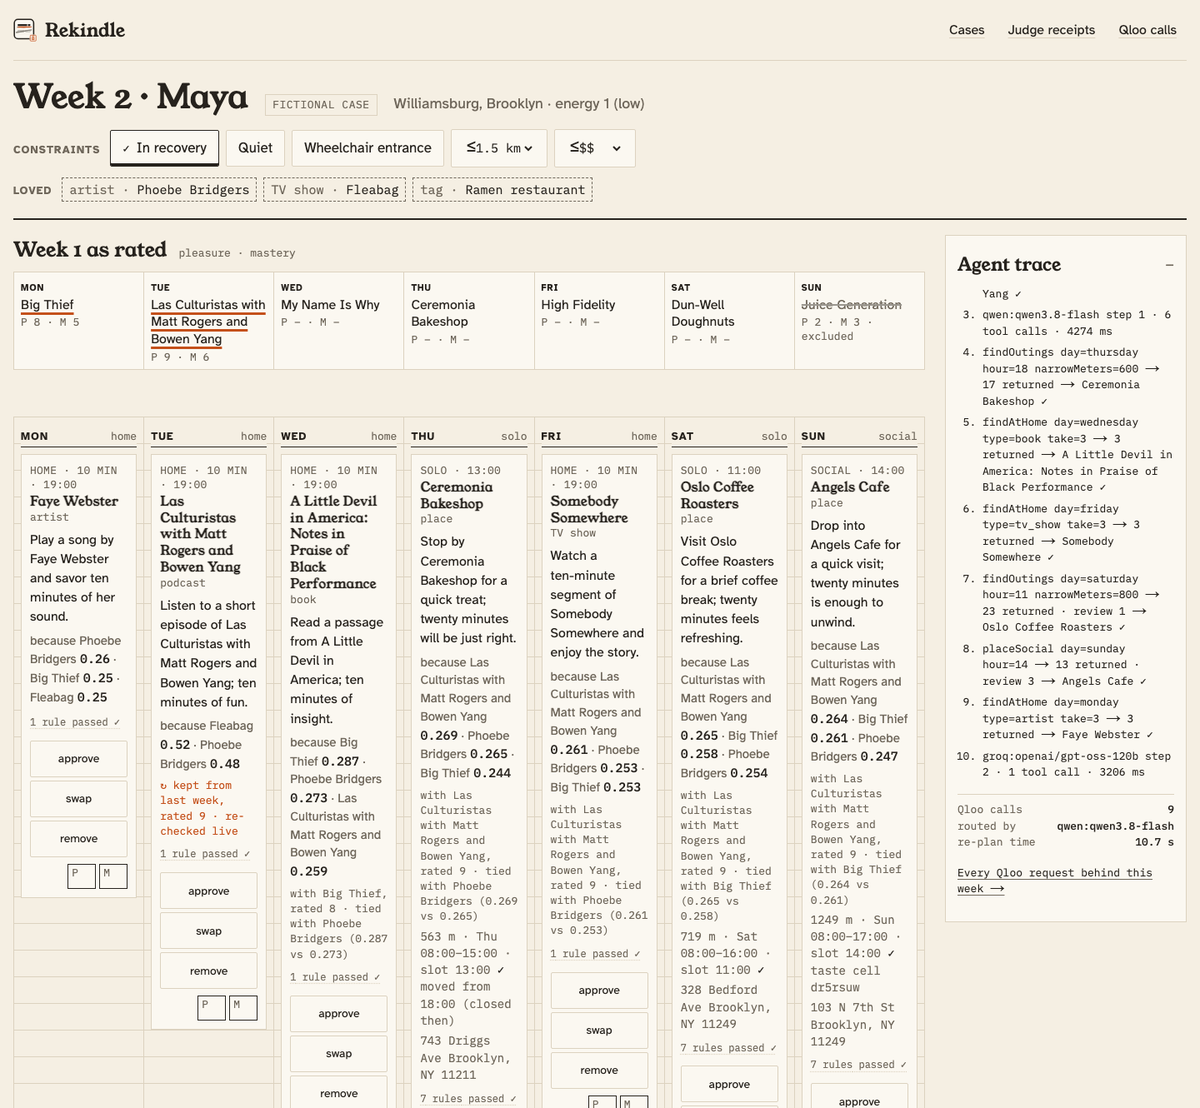
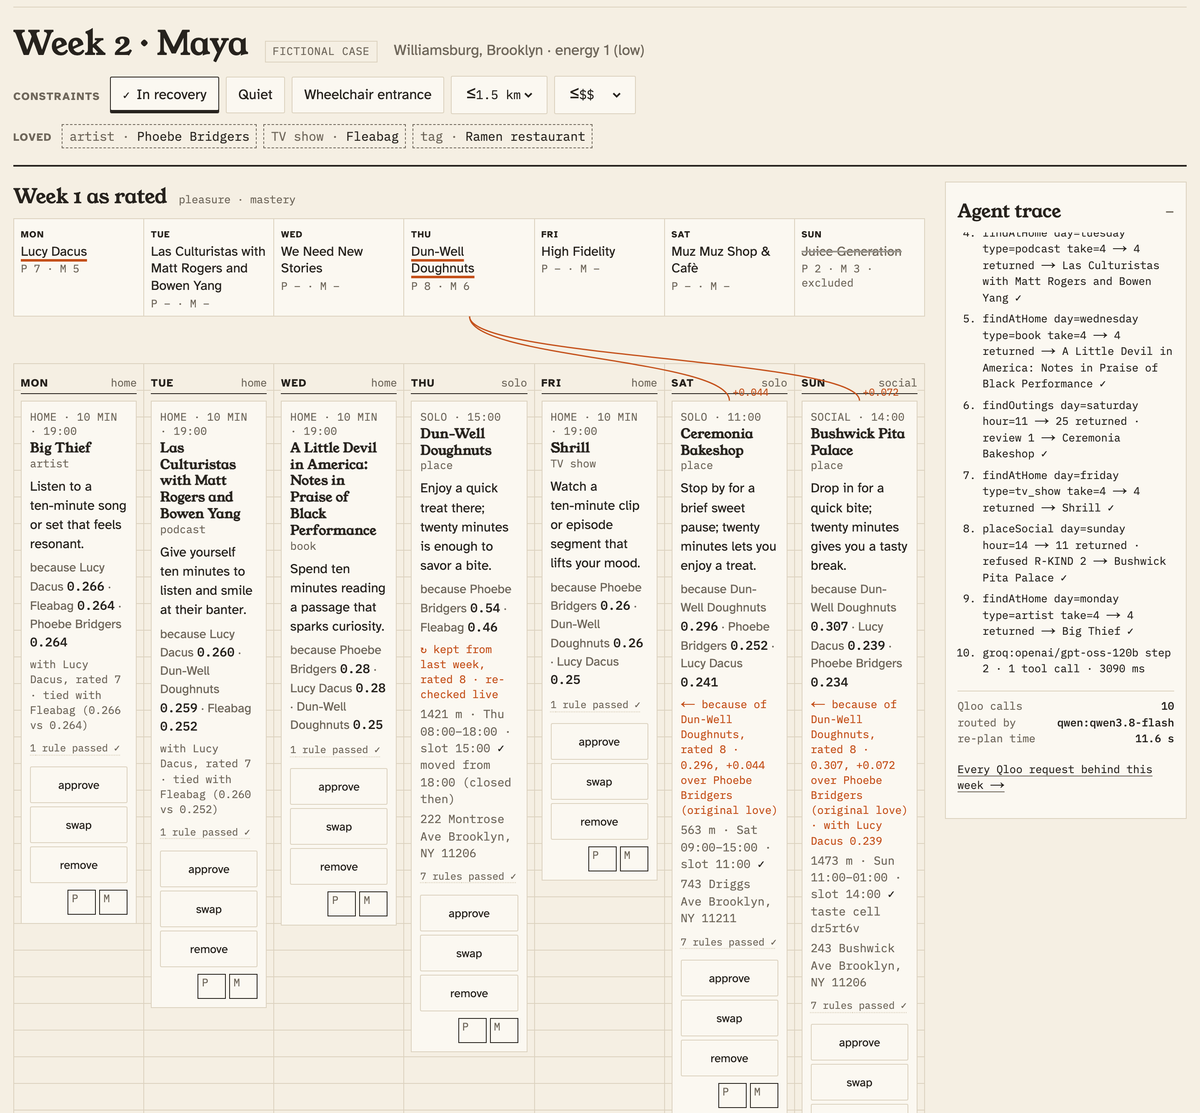
D14a assets: README hero is the animated re-plan (the real 8 Oct run: Dun-Well Doughnuts rated 8 kept and threaded to two new outings, Juice Generation rated 2 out; hand-checked 7 of 17 vs 0 of 14), the live week-2 capture moves under the re-plan step; og:image redrawn from a live capture and versio

diff --git a/app/layout.tsx b/app/layout.tsx
@@ -6,19 +6,24 @@ const display = Young_Serif({ variable: "--font-young-serif", weight: "400", sub
 const body = Atkinson_Hyperlegible({ variable: "--font-atkinson", weight: ["400", "700"], subsets: ["latin"] });
 const data = IBM_Plex_Mono({ variable: "--font-plex-mono", weight: ["400", "500"], subsets: ["latin"] });
 
+// Bump OG_IMAGE's version whenever public/og-image.png changes: Discord, X and Slack cache cards by URL (social-card trap 1).
+const OG_IMAGE = "/og-image.png?v=d14a";
+const OG_ALT =
+  "Rekindle: hand-checked, the same LLM got 7 of 17 named venues wrong and Rekindle 0 of 14; beside it, week two re-planned live from a fictional patient's ratings.";
+
 export const metadata: Metadata = {
   metadataBase: new URL("https://rekindle.edycu.dev"),
   title: "Rekindle",
   description:
-    "A behavioral-activation planning agent for clinicians: a verified, clinician-approved week of real activities built from what a patient used to love, via Qloo.",
+    "A behavioral-activation planning agent for clinicians: a verified, clinician-approved week of real activities from what a patient used to love, via Qloo.",
   icons: { icon: "/favicon.svg" },
   openGraph: {
     title: "Rekindle",
     siteName: "Rekindle",
     description:
-      "Turns what a patient used to love into a clinician-approved week of real, open, nearby activities, re-planned from pleasure ratings.",
+      "Turns what a patient used to love into a clinician-approved week of real, open, nearby places, re-planned from her ratings.",
     url: "https://rekindle.edycu.dev",
-    images: [{ url: "/og-image.png", width: 1200, height: 630, alt: "Rekindle" }],
+    images: [{ url: OG_IMAGE, width: 1200, height: 630, alt: OG_ALT }],
     locale: "en_US",
     type: "website",
   },
@@ -26,8 +31,8 @@ export const metadata: Metadata = {
     card: "summary_large_image",
     title: "Rekindle",
     description:
-      "Turns what a patient used to love into a clinician-approved week of real, open, nearby activities, re-planned from pleasure ratings.",
-    images: ["/og-image.png"],
+      "Turns what a patient used to love into a clinician-approved week of real, open, nearby places, re-planned from her ratings.",
+    images: [{ url: OG_IMAGE, alt: OG_ALT }],
   },
 };
 

diff --git a/README.md b/README.md
@@ -1,9 +1,9 @@
 <div align="center">
-  <img src="docs/assets/icon-animated.svg" alt="Rekindle icon" width="144" height="144">
+  <img src="docs/assets/icon-animated.svg" alt="Rekindle mark: the letter R on a pencil line that strikes through a pencilled word, then catches ember" width="144" height="144">
   <h1>Rekindle 🕯</h1>
   <p><b>A behavioral-activation planning agent for clinicians.</b><br>
   It turns what a depressed patient used to love into a week of real, open, nearby activities, verified with Qloo, approved by the clinician, and re-planned from the patient's own pleasure ratings.</p>
-  <img src="docs/assets/readme-replan-live.png" alt="A live Rekindle re-plan, captured from the deployed app on 7 Oct 2026: week 2 for Maya, a fictional case, with In recovery on. Above it, week 1 as rated: Big Thief P 8 and Las Culturistas P 9 underlined, Juice Generation P 2 struck as excluded. Las Culturistas comes back on Tuesday marked kept from last week, rated 9, re-checked live; other cards name the rated shows as a tied input next to Qloo's explainability weights. The agent trace runs down the right." width="100%">
+  <img src="docs/assets/readme-hero-animated.svg" alt="Rekindle — re-plans a patient's week from her pleasure ratings: Maya rated Dun-Well Doughnuts 8: kept, re-checked live, and threaded to two new outings. Juice Generation, rated 2, stays out. Maya is a fictional case; the names and scores are from a live run on 8 Oct 2026." width="100%">
 
   <br/>
 
@@ -68,6 +68,9 @@ Behavioral activation (BA) is a first-line, low-cost treatment for depression. I
    Refused candidates **stay on the sheet, struck through, with their rule**. Ambiguous ones go to the clinician in a dashed REVIEW box.
 4. **The clinician gate.** Approve, swap (re-runs that one slot live) or remove each card, then **Approve week**. Nothing reaches the patient without approval. A patient sheet prints only the approved activities.
 5. **Ratings → re-plan.** Pleasure and mastery are rated 0–10. A rating ≥7 becomes a Qloo signal for week 2, and a rating ≤3 becomes an exclusion. The diff draws an ember thread from a rated activity to a week-2 card only where it is the card's top rated Qloo explainability input and outweighs the case's best original love by at least 0.02 (the bench's margin); other ratings that also outweigh the loves are named on the label, and a narrower lead is labelled a tie. The top-rated activity itself comes back in its slot ("↻ kept") after a live re-check.
+
+<p align="center"><img src="docs/assets/readme-replan-live.png" alt="A live Rekindle re-plan, captured from the deployed app on 8 Oct 2026: week 2 for Maya, a fictional case, with In recovery on. Above it, week 1 as rated: Lucy Dacus P 7 and Dun-Well Doughnuts P 8 underlined in ember, Juice Generation P 2 struck as excluded. Dun-Well Doughnuts comes back on Thursday marked kept from last week, rated 8, re-checked live; two ember threads run from it to Saturday's Ceremonia Bakeshop and Sunday's Bushwick Pita Palace, each labelled with its lead over Phoebe Bridgers, an original love. The agent trace runs down the right." width="100%"></p>
+<p align="center"><sub>Week 2 on the live app, 8 Oct 2026 (plan e0adf88a; Maya is a fictional case). The threads are Qloo's attribution, not causation.</sub></p>
 
 Every card carries a **because** line with Qloo's explainability weights for the patient's entity loves (artists, shows, books), for example "because Phoebe Bridgers 0.54 · Fleabag 0.46". Tag loves such as ramen change the ranking, but Qloo doesn't attribute tag signals ([DX-REPORT §7](DX-REPORT.md#7-explainability-covers-entity-signals-only)).
 
